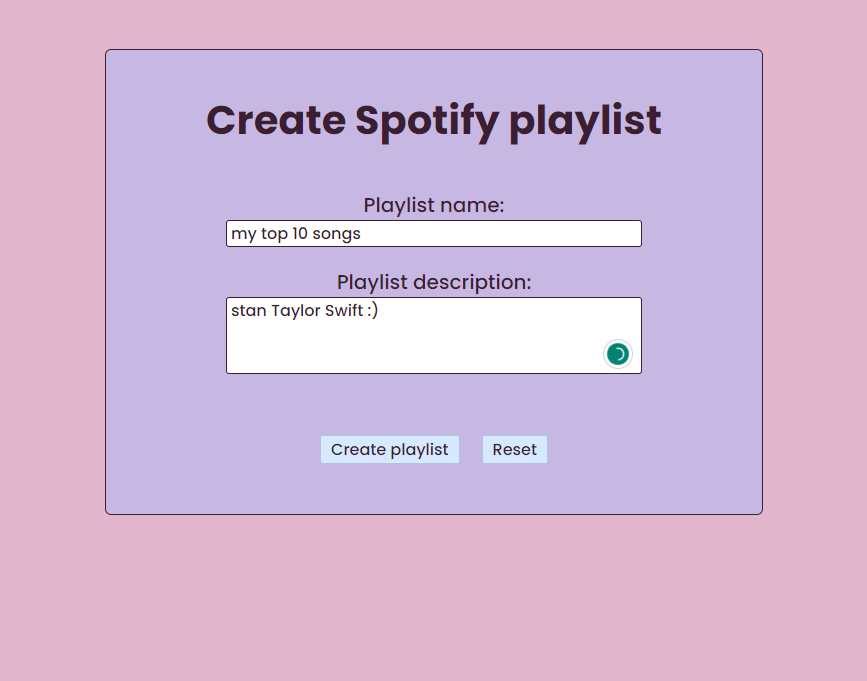
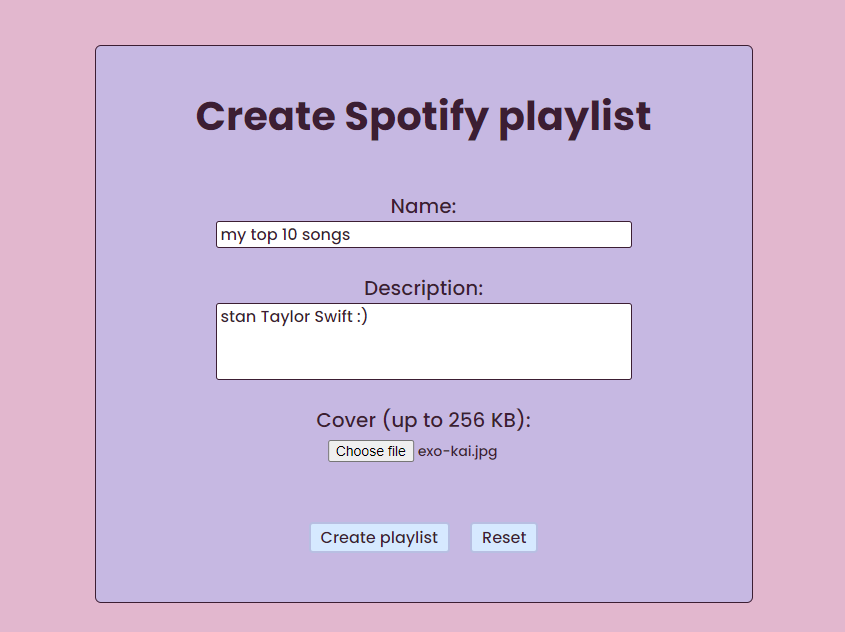
playlist cover
added option to upload an image for the playlist cover

Changed region(s): [[0.0923, 0.0601, 0.8923, 0.962], [0.2462, 0.2706, 0.7692, 0.6013], [0.2154, 0.1503, 0.7692, 0.2405]]

diff --git a/templates/create-playlist.html b/templates/create-playlist.html
@@ -12,13 +12,17 @@
 
 <body>
     <div class="user-input">
-        <form method="POST" action="{{ url_for('playlist_create') }}">
+        <form method="POST" action="{{ url_for('playlist_create') }}" enctype="multipart/form-data">
             <h2 id="form-header">Create Spotify playlist</h2>
             <div class="form-input">
-                <label for="playlist-name">Playlist name:</label>
+                <label for="playlist-name">Name:</label>
                 <input type="text" id="playlist-name" name="playlist-name">
-                <label for="description">Playlist description:</label>
+                <label for="description">Description:</label>
                 <textarea cols="20" rows="3" id="description" name="description"></textarea>
+                <label for="cover-art">Cover (up to 256 KB):</label>
+                <div class="file-upload">
+                    <input class="upload-input" type="file" id="cover-art" name="cover-art">
+                </div>
             </div>
             <div class="buttons">
                 <input type="submit" name="submit" value="Create playlist">

diff --git a/static/style.css b/static/style.css
@@ -43,13 +43,14 @@ body {
     display:flex;
     width: 100%;
     align-items: center;
+    justify-content: center;
     flex-direction: column;
     padding: 20px 20px 50px 20px;
 }
 .form-input label {
     font-size: 20px;
     font-weight: 500;
-    margin: 20px 0 0 0;
+    margin: 25px 0 0 0;
     color: #3c1e33;
 }
 .form-input p {
@@ -72,6 +73,22 @@ input[type=number] {
     border-radius: 3px;
     color: #3c1e33;
     padding: 0 4px 0 4px;
+}
+.file-upload {
+    align-items: center;
+    justify-content: space-between;
+    display: flex;
+    flex-direction: row;
+    width: 80%;
+}
+input[type=file] {
+    width: 100%;
+    translate: 26%;
+    font-size: 14px;
+    font-weight: 500;
+    border-radius: 3px;
+    color: #3c1e33;
+    padding: 5px 4px 0 4px;
 }
 select {
     width: 80%;

diff --git a/app.py b/app.py
@@ -11,6 +11,7 @@ import spotipy
 import requests
 import json
 import config
+import base64
 
 """FLASK APP"""
 app = Flask(__name__)
@@ -22,7 +23,7 @@ def login():
     sp_oauth = SpotifyOAuth(client_id=config.SPOTIFY_ID,
                             client_secret=config.SPOTIFY_SECRET,
                             redirect_uri=config.SPOTIFY_REDIRECT_URL,
-                            scope=['playlist-modify-private', 'playlist-modify-public'],
+                            scope=['playlist-modify-private', 'playlist-modify-public', 'ugc-image-upload'],
                             show_dialog=True)
     auth_url = sp_oauth.get_authorize_url()
     return redirect(auth_url)
@@ -33,7 +34,7 @@ def callback():
     sp_oauth = SpotifyOAuth(client_id=config.SPOTIFY_ID,
                             client_secret=config.SPOTIFY_SECRET,
                             redirect_uri=config.SPOTIFY_REDIRECT_URL,
-                            scope=['playlist-modify-private', 'playlist-modify-public'],
+                            scope=['playlist-modify-private', 'playlist-modify-public', 'ugc-image-upload'],
                             show_dialog=True)
     session.clear()
     token_info = sp_oauth.get_access_token(code)
@@ -103,7 +104,9 @@ def playlist_create():
         'description': request.form.get('description'),
         'public': False
     })
-    embedded_playlist_url = create_playlist(playlist_details, song_uri)
+    cover_art = request.files['cover-art']
+    encoded_image = base64.b64encode(cover_art.read())
+    embedded_playlist_url = create_playlist(playlist_details, song_uri, encoded_image)
     return redirect(url_for('playlist_display'))
 
 @app.route('/playlist-display')
@@ -213,11 +216,15 @@ def get_artist_image(artist_list, track_data):
 
 
 # Creates an empty playlist then adds the user's top songs
-def create_playlist(playlist_details, uri_list):
+def create_playlist(playlist_details, uri_list, cover_art = None):
     access_token = session.get('token_info').get('access_token')
     sp = spotipy.Spotify(auth=access_token)
     headers = {
         "Content-Type": "application/json",
+        "Authorization": f"Bearer { access_token }"
+    }
+    image_headers = {
+        "Content-Type": "image/png",
         "Authorization": f"Bearer { access_token }"
     }
     username = sp.current_user()['id']
@@ -227,6 +234,13 @@ def create_playlist(playlist_details, uri_list):
         exceptions(r)
     else:
         playlist = r.json()
+        if cover_art:
+            url = f"https://api.spotify.com/v1/playlists/{playlist['id']}/images"
+            req = requests.put(url, data = cover_art, headers=image_headers)
+            if req.status_code != 202:
+                exceptions(req)
+            else:
+                print("Playlist cover successfully added")
         url = f"https://api.spotify.com/v1/playlists/{playlist['id']}/tracks"
         uris = json.dumps({'uris': uri_list})
         req = requests.post(url, data = uris, headers=headers)

diff --git a/README.md b/README.md
@@ -5,11 +5,11 @@ A web app that generates a Spotify playlist of a user's most listened tracks, ob
 TBD
 
 ## How it works:
-- When the application is first run, you will see this page where you will be prompted to login to your Spotify account 
+- When the application is first run, you will see this page where you will be prompted to login to your Spotify account and authenticate the app.
 <img src="/screenshots/spotify-login.png" alt= “spotify-login” width="700">
 <br>
 
-- Once you have logged in, you willsee the homepage where you will enter the details for the data to be extracted from last.fm.
+- Once you have logged in, you will see the homepage where you will enter the details for the data to be extracted from last.fm.
 <img src="/screenshots/homepage.png" alt= “homepage” width="700">
 <br>
 
@@ -27,7 +27,5 @@ TBD
 <br>
 
 ## To-do:
-- Need to work out how to handle input errors (e.g. if last.fm username does not exist)
-- Add option to choose theme of embedded playlist
-- Might add an option to upload a custom photo when creating the playlist
+- Need to work out how to handle input errors (e.g. if last.fm username does not exist or file uploaded is too big)
 
